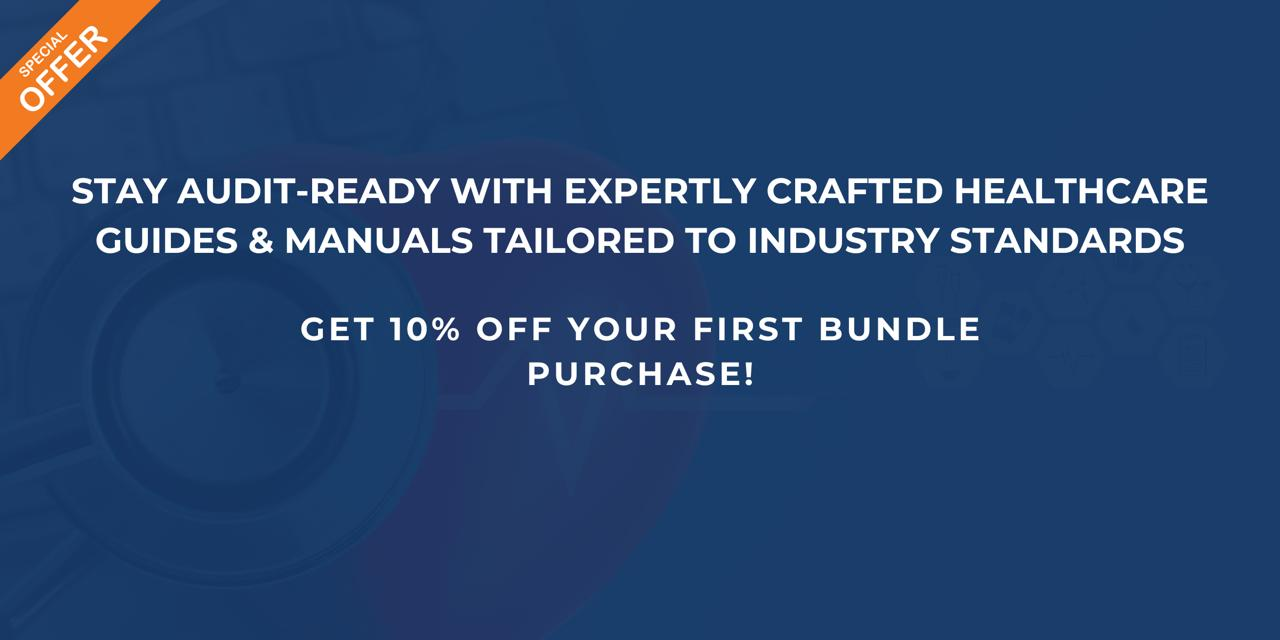
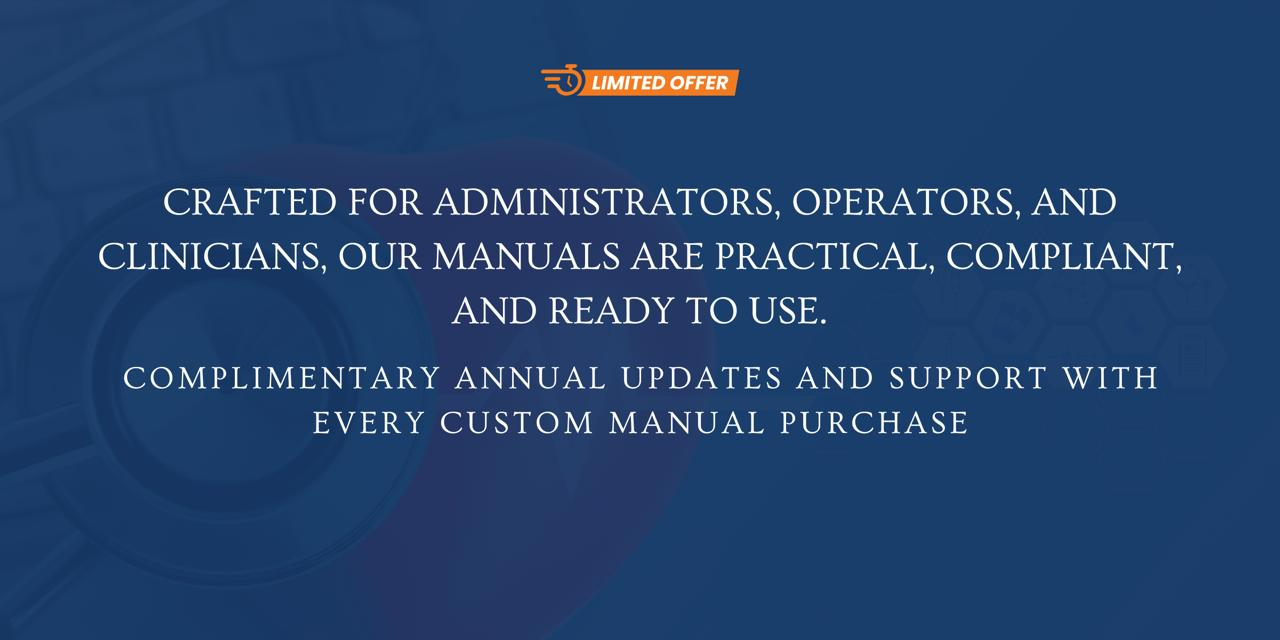
new

diff --git a/contactus-formdetails.html b/contactus-formdetails.html
@@ -1,0 +1,310 @@
+<div
+  style="
+    max-width: 780px;
+    margin: 24px auto;
+    padding: 0;
+    background: #fff;
+    border: 1px solid #ddd;
+    border-radius: 6px;
+    box-shadow: 0 10px 30px rgba(0, 0, 0, 0.15);
+    font-family: Georgia, serif;
+    color: #222;
+  "
+>
+  <!-- Logo -->
+  <div
+    style="
+      padding: 18px 20px 0;
+      text-align: center;
+      border-bottom: 1px solid #eee;
+    "
+  >
+    <img
+      src="assets/img/consulting/consulting-logo.png"
+      alt="Dignity Medical Training"
+      style="max-height: 48px; height: auto; width: auto; display: inline-block"
+    />
+  </div>
+
+  <!-- Header row -->
+  <div
+    style="
+      display: flex;
+      align-items: center;
+      justify-content: space-between;
+      padding: 14px 20px;
+      border-bottom: 1px solid #eee;
+    "
+  >
+    <h3 style="margin: 0; font-size: 20px; font-weight: 700">
+      Contact Us Form Details
+    </h3>
+  </div>
+
+  <form style="padding: 14px 20px 20px">
+    <!-- Name -->
+    <div
+      style="
+        display: flex;
+        align-items: center;
+        gap: 16px;
+        padding: 10px 0;
+        border-bottom: 1px solid #f1f1f1;
+      "
+    >
+      <div
+        style="
+          width: 200px;
+          min-width: 180px;
+          display: flex;
+          align-items: center;
+          gap: 8px;
+        "
+      >
+        <input
+          type="checkbox"
+          checked
+          style="width: 16px; height: 16px; margin: 0; accent-color: #1c2d59"
+        />
+        <label style="margin: 0; font-weight: 600">Name</label>
+      </div>
+      <div style="flex: 1">
+        <input
+          type="text"
+          placeholder="Name*"
+          style="
+            width: 100%;
+            padding: 10px 12px;
+            border: 1px solid #ddd;
+            border-radius: 4px;
+            font-family: Georgia, serif;
+            font-size: 14px;
+            outline: none;
+          "
+        />
+      </div>
+    </div>
+
+    <!-- Email -->
+    <div
+      style="
+        display: flex;
+        align-items: center;
+        gap: 16px;
+        padding: 10px 0;
+        border-bottom: 1px solid #f1f1f1;
+      "
+    >
+      <div
+        style="
+          width: 200px;
+          min-width: 180px;
+          display: flex;
+          align-items: center;
+          gap: 8px;
+        "
+      >
+        <input
+          type="checkbox"
+          checked
+          style="width: 16px; height: 16px; margin: 0; accent-color: #1c2d59"
+        />
+        <label style="margin: 0; font-weight: 600">Email</label>
+      </div>
+      <div style="flex: 1">
+        <input
+          type="email"
+          placeholder="Email*"
+          style="
+            width: 100%;
+            padding: 10px 12px;
+            border: 1px solid #ddd;
+            border-radius: 4px;
+            font-family: Georgia, serif;
+            font-size: 14px;
+            outline: none;
+          "
+        />
+      </div>
+    </div>
+
+    <!-- Phone -->
+    <div
+      style="
+        display: flex;
+        align-items: center;
+        gap: 16px;
+        padding: 10px 0;
+        border-bottom: 1px solid #f1f1f1;
+      "
+    >
+      <div
+        style="
+          width: 200px;
+          min-width: 180px;
+          display: flex;
+          align-items: center;
+          gap: 8px;
+        "
+      >
+        <input
+          type="checkbox"
+          checked
+          style="width: 16px; height: 16px; margin: 0; accent-color: #1c2d59"
+        />
+        <label style="margin: 0; font-weight: 600">Phone</label>
+      </div>
+      <div style="flex: 1">
+        <input
+          type="text"
+          placeholder="Phone"
+          style="
+            width: 100%;
+            padding: 10px 12px;
+            border: 1px solid #ddd;
+            border-radius: 4px;
+            font-family: Georgia, serif;
+            font-size: 14px;
+            outline: none;
+          "
+        />
+      </div>
+    </div>
+
+    <!-- Subject -->
+    <div
+      style="
+        display: flex;
+        align-items: center;
+        gap: 16px;
+        padding: 10px 0;
+        border-bottom: 1px solid #f1f1f1;
+      "
+    >
+      <div
+        style="
+          width: 200px;
+          min-width: 180px;
+          display: flex;
+          align-items: center;
+          gap: 8px;
+        "
+      >
+        <input
+          type="checkbox"
+          checked
+          style="width: 16px; height: 16px; margin: 0; accent-color: #1c2d59"
+        />
+        <label style="margin: 0; font-weight: 600">Subject</label>
+      </div>
+      <div style="flex: 1">
+        <input
+          type="text"
+          placeholder="Subject"
+          style="
+            width: 100%;
+            padding: 10px 12px;
+            border: 1px solid #ddd;
+            border-radius: 4px;
+            font-family: Georgia, serif;
+            font-size: 14px;
+            outline: none;
+          "
+        />
+      </div>
+    </div>
+
+    <!-- Message -->
+    <div
+      style="
+        display: flex;
+        align-items: flex-start;
+        gap: 16px;
+        padding: 10px 0;
+        border-bottom: 1px solid #f1f1f1;
+      "
+    >
+      <div
+        style="
+          width: 200px;
+          min-width: 180px;
+          display: flex;
+          align-items: center;
+          gap: 8px;
+        "
+      >
+        <span style="font-weight: 600">Message</span>
+      </div>
+      <div style="flex: 1">
+        <textarea
+          rows="4"
+          placeholder="How Can We Help You? Get In Touch"
+          style="
+            width: 100%;
+            padding: 10px 12px;
+            border: 1px solid #ddd;
+            border-radius: 4px;
+            font-family: Georgia, serif;
+            font-size: 14px;
+            outline: none;
+            resize: vertical;
+          "
+        ></textarea>
+      </div>
+    </div>
+
+    <!-- SMS Consent -->
+    <div
+      style="
+        display: flex;
+        align-items: flex-start;
+        gap: 16px;
+        padding: 10px 0;
+        border-bottom: 1px solid #f1f1f1;
+      "
+    >
+      <div
+        style="
+          width: 200px;
+          min-width: 180px;
+          display: flex;
+          align-items: center;
+          gap: 8px;
+        "
+      >
+        <span style="font-weight: 600">SMS Consent</span>
+      </div>
+      <div style="flex: 1; display: flex; align-items: flex-start; gap: 10px">
+        <input
+          type="checkbox"
+          id="smsConsent"
+          required
+          style="
+            width: 16px;
+            height: 16px;
+            margin-top: 3px;
+            accent-color: #1c2d59;
+          "
+        />
+      </div>
+    </div>
+
+    <!-- Submit -->
+    <!-- <div style="padding: 16px 0 0; text-align: center">
+      <button
+        type="submit"
+        style="
+          background: #1c2d59;
+          color: #fff;
+          border: none;
+          border-radius: 999px;
+          padding: 10px 22px;
+          font-weight: 600;
+          cursor: pointer;
+        "
+      >
+        SEND MESSAGE
+      </button>
+    </div> -->
+  </form>
+</div>

diff --git a/assets/css/about-us.css b/assets/css/about-us.css
@@ -107,7 +107,7 @@ body {
     overflow-x: hidden;
   }
 
-  /* Smaller logo */
+  /* logo */
   .logo-img {
     width: 280px;
     height: auto;
@@ -160,7 +160,7 @@ body {
     overflow-x: hidden;
   }
 
-  /* Smaller logo */
+  /* logo */
   .logo-img {
     width: 230px;
     height: auto;

diff --git a/assets/css/manual&contracts.css b/assets/css/manual&contracts.css
@@ -213,7 +213,7 @@ body {
   position: absolute;
   left: 0;
   right: 0;
-  bottom: 150px;
+  bottom: 130px;
   display: flex;
   justify-content: center;
   pointer-events: none;
